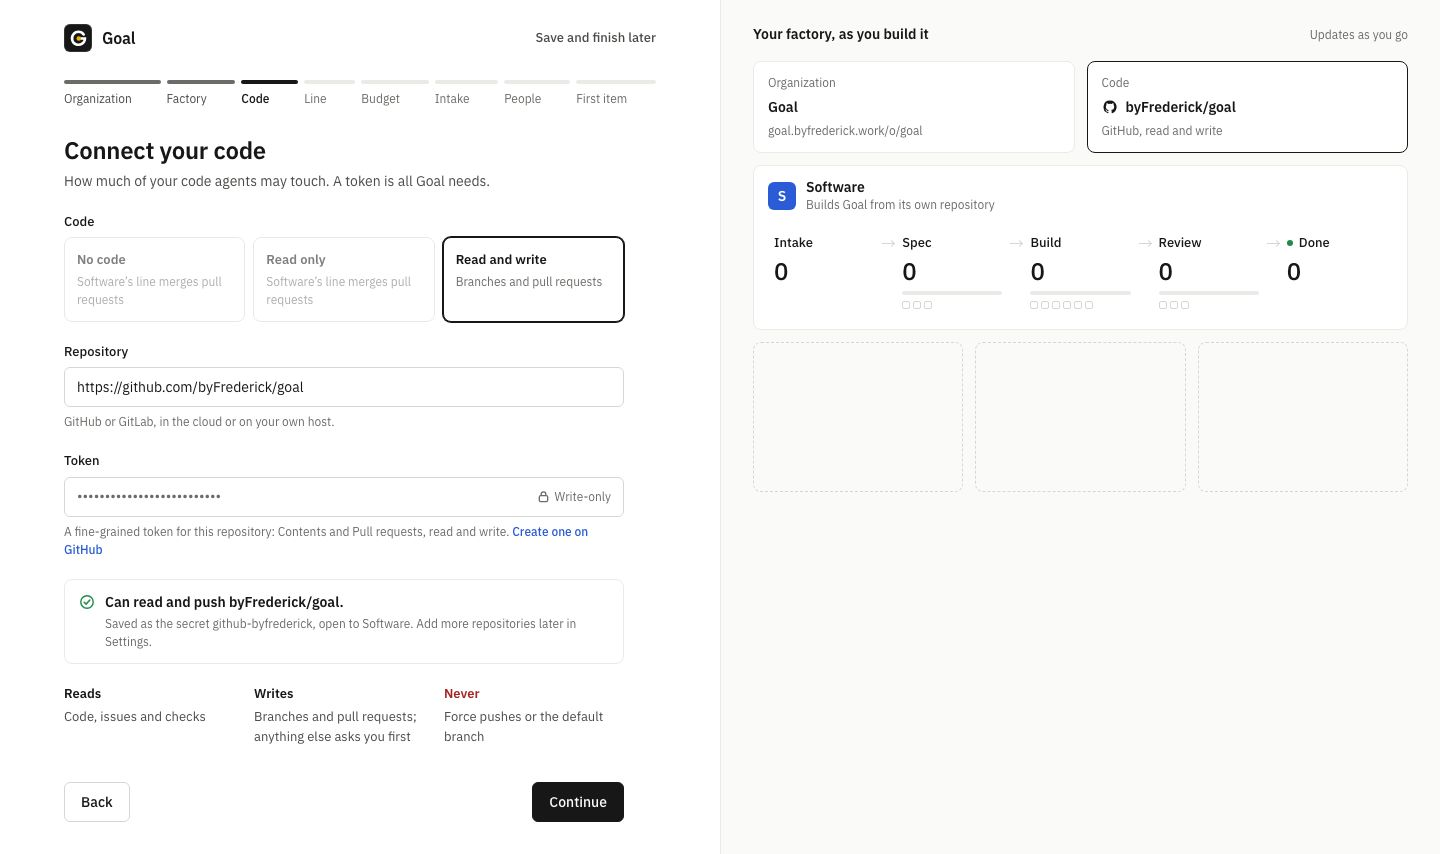
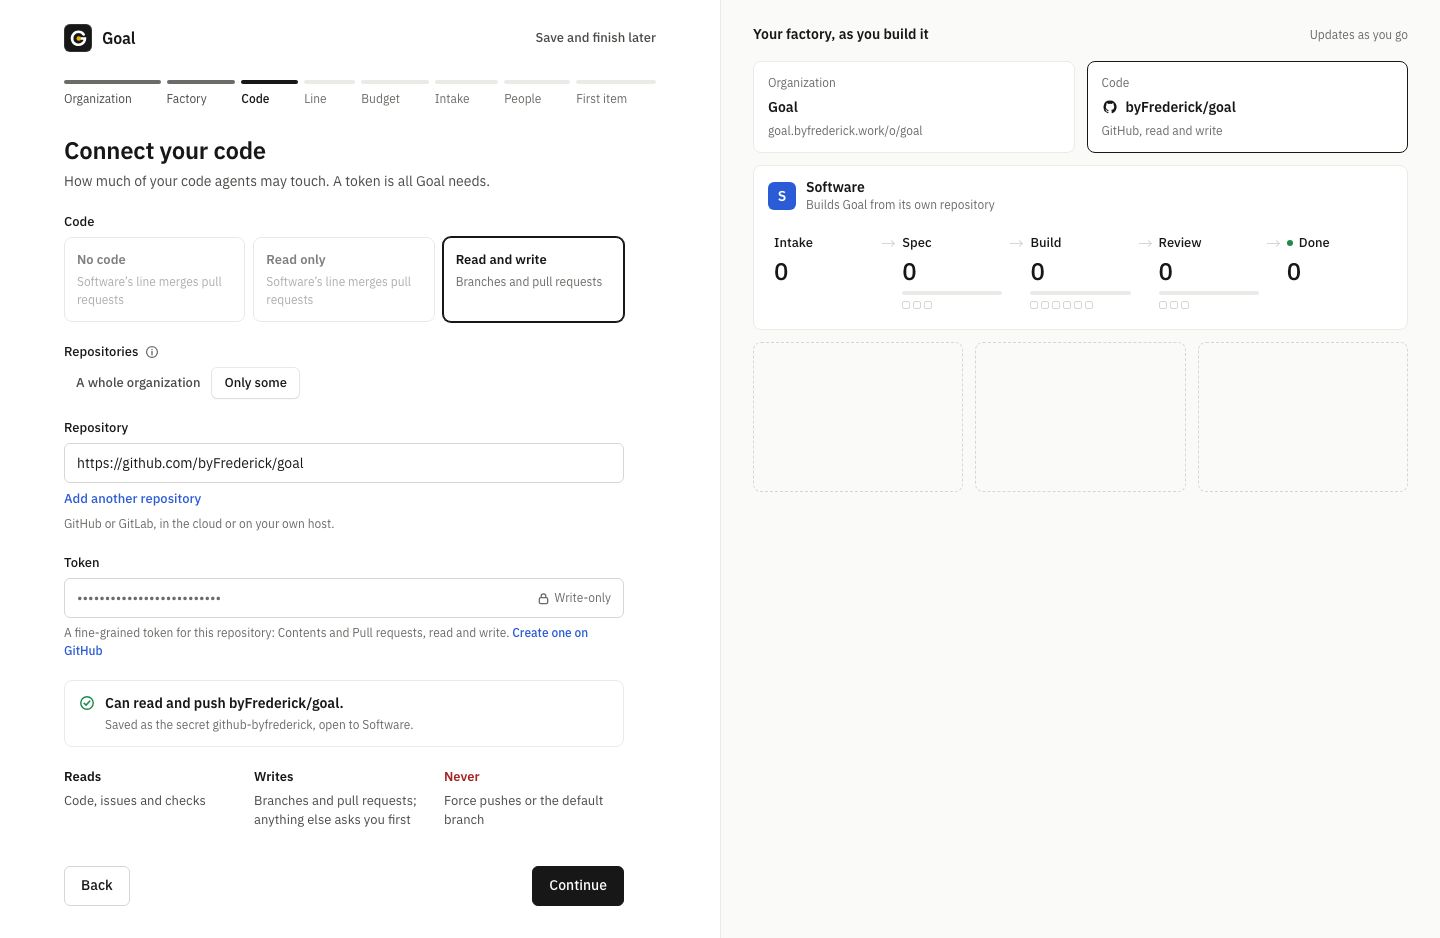
design: ADR 0041, one Code form for every case
Onboarding never needs a repository. No code asks for nothing; Read only
and Read and write ask the same two things, a whole organization or some
repositories and a token, so an incidents factory over an organization
and a software factory over one or many repositories fill in one form.
Owner patterns work for either access, and an item has a default
repository only when the single entry names one.

diff --git a/docs/design/screens/get-started/repository.html b/docs/design/screens/get-started/repository.html
@@ -185,6 +185,9 @@ a:focus-visible,button:focus-visible,input:focus-visible,textarea:focus-visible,
 .acc2 .ao span{font-size:12px;color:var(--ink3)}
 @media (max-width:640px){.acc2{grid-template-columns:minmax(0,1fr)}}
 .acc2 .ao.off{opacity:.55;cursor:not-allowed}
+.ii{position:relative;display:inline-flex;vertical-align:middle;flex:none}.ii>button{position:relative;width:20px;height:20px;display:grid;place-items:center;border:0;background:none;color:var(--ink3);border-radius:4px;cursor:help;padding:0}.ii>button::after{content:"";position:absolute;inset:-12px}.ii>button:hover,.ii>button:focus-visible{color:var(--ink)}.ii [role=tooltip]{position:absolute;z-index:5;left:-8px;top:calc(100% + 6px);width:max-content;max-width:min(280px,70vw);padding:8px 10px;border-radius:8px;background:var(--bg);box-shadow:var(--shadow-pop);font-size:12.5px;font-weight:400;line-height:1.45;color:var(--ink2);text-align:left;white-space:normal;opacity:0;visibility:hidden;transform:scale(.98);transform-origin:top left;transition:opacity 150ms ease-out,transform 150ms ease-out,visibility 0s 150ms;pointer-events:none}.ii:hover [role=tooltip],.ii:focus-within [role=tooltip]{opacity:1;visibility:visible;transform:none;transition-delay:80ms,80ms,0s}@media (prefers-reduced-motion:reduce){.ii [role=tooltip]{transition:none}}@media (max-width:640px){.ii [role=tooltip]{position:fixed;left:16px;right:16px;top:auto;width:auto;max-width:none;margin-top:26px}}\n.sg3{display:inline-flex;padding:2px;border-radius:7px;background:var(--hover);gap:2px;align-self:flex-start;max-width:100%;flex-wrap:wrap}
+.sg3 button{height:30px;padding:0 12px;border:0;border-radius:5px;background:none;font:inherit;font-size:13px;font-weight:500;color:var(--ink2);cursor:pointer;white-space:nowrap}
+.sg3 button[aria-pressed="true"]{background:var(--bg);color:var(--ink);box-shadow:0 1px 2px rgba(0,0,0,.08),0 0 0 1px var(--rule)}
 </style>
 </helmet>
 <div class="g ob ">
@@ -198,10 +201,11 @@ a:focus-visible,button:focus-visible,input:focus-visible,textarea:focus-visible,
 <div class="ao off" role="radio" aria-checked="false" aria-disabled="true"><b>Read only</b><span>Software’s line merges pull requests</span></div>
 <div class="ao" role="radio" aria-checked="true" tabindex="0"><b>Read and write</b><span>Branches and pull requests</span></div>
 </div></div>
-<div class="fld"><label class="lbl" for="rp">Repository</label><input class="in" id="rp" type="url" value="https://github.com/byFrederick/goal"><span class="hint">GitHub or GitLab, in the cloud or on your own host.</span></div>
+<div class="fld"><span class="lbl" style="display: flex; align-items: center; gap: 4px">Repositories<span class="ii"><button type="button" aria-label="About repositories" aria-describedby="rtip"><svg width="14" height="14" viewBox="0 0 18 18" aria-hidden="true"><circle cx="9" cy="9" r="7" fill="none" stroke="currentColor" stroke-width="1.6"></circle><path d="M9 8.2v4.3M9 5.6v.1" stroke="currentColor" stroke-width="1.8" stroke-linecap="round"></path></svg></button><span role="tooltip" id="rtip">A whole organization covers every repository in it, including new ones. Each item clones the one it’s about. Read and write access works either way.</span></span></span><div class="sg3" role="group" aria-label="Repositories"><button type="button" aria-pressed="false">A whole organization</button><button type="button" aria-pressed="true">Only some</button></div></div>
+<div class="fld"><label class="lbl" for="rp">Repository</label><input class="in" id="rp" type="url" value="https://github.com/byFrederick/goal"><a href="#" style="text-decoration: none; font-weight: 500; font-size: 13px">Add another repository</a><span class="hint">GitHub or GitLab, in the cloud or on your own host.</span></div>
 <div class="fld"><label class="lbl" for="tk">Token</label><div class="in" id="tk" style="display: flex; align-items: center; gap: 8px"><span style="flex: 1; min-width: 0; color: var(--ink3); overflow: hidden; white-space: nowrap; text-overflow: ellipsis">••••••••••••••••••••••••••</span><span class="hint" style="display: inline-flex; align-items: center; gap: 5px; flex: none"><svg width="13" height="13" viewBox="0 0 14 14" aria-hidden="true"><rect x="2.5" y="6" width="9" height="6.5" rx="1.5" fill="none" stroke="currentColor" stroke-width="1.4"></rect><path d="M4.5 6V4.5a2.5 2.5 0 0 1 5 0V6" fill="none" stroke="currentColor" stroke-width="1.4"></path></svg>Write-only</span></div>
 <span class="hint">A fine-grained token for this repository: Contents and Pull requests, read and write. <a href="https://github.com/settings/personal-access-tokens/new" style="text-decoration: none; font-weight: 500">Create one on GitHub</a></span></div>
-<div class="box" role="status" style="display: flex; align-items: flex-start; gap: 10px; padding: 12px 14px"><span style="color: var(--grn); display: grid; place-items: center; padding-top: 2px"><svg width="16" height="16" viewBox="0 0 18 18" aria-hidden="true"><circle cx="9" cy="9" r="7" fill="none" stroke="currentColor" stroke-width="1.6"></circle><path d="m5.8 9.2 2.2 2.2 4.2-4.6" fill="none" stroke="currentColor" stroke-width="1.7" stroke-linecap="round"></path></svg></span><span style="display: flex; flex-direction: column; gap: 2px; min-width: 0"><span style="font-weight: 600">Can read and push byFrederick/goal.</span><span class="hint">Saved as the secret github-byfrederick, open to Software. Add more repositories later in Settings.</span></span></div>
+<div class="box" role="status" style="display: flex; align-items: flex-start; gap: 10px; padding: 12px 14px"><span style="color: var(--grn); display: grid; place-items: center; padding-top: 2px"><svg width="16" height="16" viewBox="0 0 18 18" aria-hidden="true"><circle cx="9" cy="9" r="7" fill="none" stroke="currentColor" stroke-width="1.6"></circle><path d="m5.8 9.2 2.2 2.2 4.2-4.6" fill="none" stroke="currentColor" stroke-width="1.7" stroke-linecap="round"></path></svg></span><span style="display: flex; flex-direction: column; gap: 2px; min-width: 0"><span style="font-weight: 600">Can read and push byFrederick/goal.</span><span class="hint">Saved as the secret github-byfrederick, open to Software.</span></span></div>
 <div style="display: grid; grid-template-columns: repeat(3, minmax(0,1fr)); gap: 10px; font-size: 13px">
 <div style="display: flex; flex-direction: column; gap: 4px"><span style="font-weight: 600">Reads</span><span class="m2">Code, issues and checks</span></div>
 <div style="display: flex; flex-direction: column; gap: 4px"><span style="font-weight: 600">Writes</span><span class="m2">Branches and pull requests; anything else asks you first</span></div>

diff --git a/docs/adr/0041-code-and-github-without-an-app.md b/docs/adr/0041-code-and-github-without-an-app.md
@@ -46,7 +46,7 @@ An adversarial review of the first draft against the code found 30 problems acro
          url: https://github.com/byFrederick/goal
          token: "{{github-byfrederick}}"
          access: write
-       - name: services                      # read entries may cover a whole owner
+       - name: services                      # an entry may be one repository or a whole organization
          url: https://github.com/byFrederick/*
          token: "{{github-byfrederick-read}}"
          access: read
@@ -54,7 +54,7 @@ An adversarial review of the first draft against the code found 30 problems acro
 
    - **Entries:**
      - `name` is a slug, unique in the factory.
-     - `url` is a repository on a listed host. A `read` entry may instead be an owner pattern ending in `/*`.
+     - `url` is one repository on a listed host, or a whole organization (an owner pattern ending in `/*`), for either access. One factory can mix them: one repository, several, or every repository of an organization.
      - `token` is a `{{secret}}`, required for `write`.
      - `access` is `read` or `write`.
 
@@ -80,9 +80,8 @@ An adversarial review of the first draft against the code found 30 problems acro
      - **a part** takes its assembly's;
      - **a follow-up's item** takes the follow-up's `start.repository`, one of the factory's, or else its source item's.
    - **When nothing sets it:**
-     - **one repository:** that one;
-     - **a merging line:** its first `write` repository;
-     - **several:** none, so the item starts with an empty workspace. A station can then set the repository once, through the output field the definition names (`board.flow.outputs.repository`, next to ADR 0040's `followUps` and `close`).
+     - **one entry naming one repository:** that one;
+     - **otherwise** (several entries, or a whole organization): none, so the item starts with an empty workspace. A station can then set the repository once, through the output field the definition names (`board.flow.outputs.repository`, next to ADR 0040's `followUps` and `close`).
    - **Setting it later** is refused on parts, into a `read` repository on a merging line, and after any run of the item cloned a repository. Runs record their repository (`agent_runs.repository_url`).
    - **A triage item** (ADR 0040) whose follow-ups come from several repositories gets none.
    - **Removing an entry** that open items use is refused at publish.
@@ -106,7 +105,7 @@ An adversarial review of the first draft against the code found 30 problems acro
 8. **Repository tests are per factory and kept.**
    - **The route:** `POST /v1/orgs/{org}/factories/{factory}/repositories/test` needs `definition:edit` and opens the secret for that factory, as the environment test does.
    - **The answers:**
-     - "Can read", with the warning of decision 3 when the token can also push;
+     - "Can read", with the warning of decision 3 when the token can also push; for an owner pattern, how many repositories the token can read ("Can read 48 repositories in byFrederick");
      - "Can read and push". The host reports no pull-request permission, so Goal can't check it.
    - **Kept results:** each result is kept per factory and repository, and reruns on Test or when the secret's value changes. Pages don't test on every view.
    - **What goes:** the organization-level test route, which only onboarding used before the factory existed.
@@ -117,6 +116,11 @@ An adversarial review of the first draft against the code found 30 problems acro
    - **The order** becomes Organization, Factory, Code, Line, Budget, Intake, People, First item. The template and the factory then exist when the code is chosen.
    - **Template needs:** each template's `template.yaml` says `code: none` or `code: read`, and `write` follows from a line that merges. This is exposed on `TemplateSummary`.
    - **The Code step** offers No code, Read only, and Read and write, and disables the choices the template's line can't use, with the reason.
+   - **One form for every case.**
+     - **No code** asks for nothing, so onboarding never needs a repository.
+     - **Read only, and Read and write,** ask the same two things: which repositories (a whole organization, or only some, one or more) and a token.
+     - So an incidents factory reading an organization, a software factory writing to one repository, and one writing to many all fill in the same form.
+     - Each item clones the one repository it's about.
    - **The token** is saved as a secret open to the new factory and tested for it. On a name clash, the step offers to use the existing secret or pick a new name, and never replaces a value.
 
 10. **Factory settings' Repository section becomes Code.**
@@ -211,7 +215,7 @@ An adversarial review of the first draft against the code found 30 problems acro
 
 ## Consequences
 
-- An incidents factory can have no code, or read access to every repository of a GitHub organization through one owner pattern. Each item clones only the repository its event names. Goal never pushes to them, and a read-only token makes sure agents can't either.
+- Any factory can have no code, one repository, several, or every repository of an organization, with read or write access. An incidents factory reads a whole organization; a software factory can write to one repository or many. Each item clones only the repository it's about. Goal never pushes to them, and a read-only token makes sure agents can't either.
 - Onboarding works for teams with read-only or no GitHub access, and for GitHub Enterprise and self-managed GitLab hosts that owners list.
 - One GitHub organization webhook serves every factory it's opened to. Adding a factory or a repository needs nothing new in GitHub.
 - Branch names change for new items, to include the factory.
@@ -230,7 +234,7 @@ An adversarial review of the first draft against the code found 30 problems acro
 
 | # | Pull request | Lane | What it changes | Merges after |
 |---|---|---|---|---|
-| 1 | **Hosts and repositories in the definition.** Decisions 1, 2 and 18. | backend | `code_hosts` and its routes; `runtime.repositories` with `name`, `url` (owner patterns for `read`), `token` and `access`; the shorthand; the publish rules, including the temporary refusal of a second repository and `read`; repository tokens as secret places and uses; `create.repository` as a template place; `code` in `template.yaml` and `TemplateSummary` | — |
+| 1 | **Hosts and repositories in the definition.** Decisions 1, 2 and 18. | backend | `code_hosts` and its routes; `runtime.repositories` with `name`, `url` (one repository or an owner pattern), `token` and `access`; the shorthand; the publish rules, including the temporary refusal of a second repository and `read`; repository tokens as secret places and uses; `create.repository` as a template place; `code` in `template.yaml` and `TemplateSummary` | — |
 | 2 | **The item's repository.** Decisions 4 and 13. | backend | `work_items.repository_url` with its backfill; filing by a person, a part, a follow-up's `start.repository` and `create.repository`, with its matching and the skip; the defaults; `board.flow.outputs.repository` with its refusals; `agent_runs.repository_url`; the publish refusal for a used entry; `goal run --repo` | 1 |
 | 3 | **Run start per item.** Decisions 3, 5 and 6. | backend | The bundle and prepare clone the item's repository; the fetch token for the agent's git, and the push guard for `read`; heads, base commit, changed-since and paths per repository; integration branches in the assembly's repository; the workspace note; branch names with the factory | 2 |
 | 4 | **Merges and hosts.** Decisions 5 and 7. | backend | The code host port by repository and token, for the organization's hosts; merging only the item's repository's pull requests; GitLab base commits and changed-since; `glab` in the image and the landing note; removes row 1's temporary refusal | 3 |

diff --git a/docs/design/screens/README.md b/docs/design/screens/README.md
@@ -31,7 +31,7 @@ How to use them:
 |---|---|---|---|
 | `sign-up`, `code` | `/sign-in`, `/sign-in/code` | restyle; sign-up is the same flow for a new address | GitHub sign-in (its button is disabled) |
 | `org` | onboarding step 1 | new (create organization exists for platform admins) | |
-| `repository`: Code as a choice of no code, read only, or read and write; a repository URL and a token, tested for what the choice needs, saved as a secret open to the new factory (no app to install) ([ADR 0041](../../adr/0041-code-and-github-without-an-app.md)) | step 3, after the factory | new ([ADR 0037](../../adr/0037-secrets-and-environment-files.md) decision 7; [ADR 0041](../../adr/0041-code-and-github-without-an-app.md) decision 9) | |
+| `repository`: Code as a choice of no code, read only, or read and write; then a whole organization or some repositories (one or more) and a token, tested for what the choice needs; one form for every case, saved as a secret open to the new factory (no app to install) ([ADR 0041](../../adr/0041-code-and-github-without-an-app.md)) | step 3, after the factory | new ([ADR 0037](../../adr/0037-secrets-and-environment-files.md) decision 7; [ADR 0041](../../adr/0041-code-and-github-without-an-app.md) decision 9) | |
 | `template`, `line` | steps 2 and 4 (the template comes before Code, [ADR 0041](../../adr/0041-code-and-github-without-an-app.md)) | restyle of the new-factory wizard (`/o/$org/new/$step`) | quality-first or cost-first model preset |
 | `budget` | step 5 | new (budgets exist in the definition) | |
 | `triggers`: the template's disabled triggers to turn on, the GitHub webhook to set up, and `goal run` ([ADR 0040](../../adr/0040-one-door-for-every-source.md)) | step 6 | new feature (needs Intake triggers) | |
